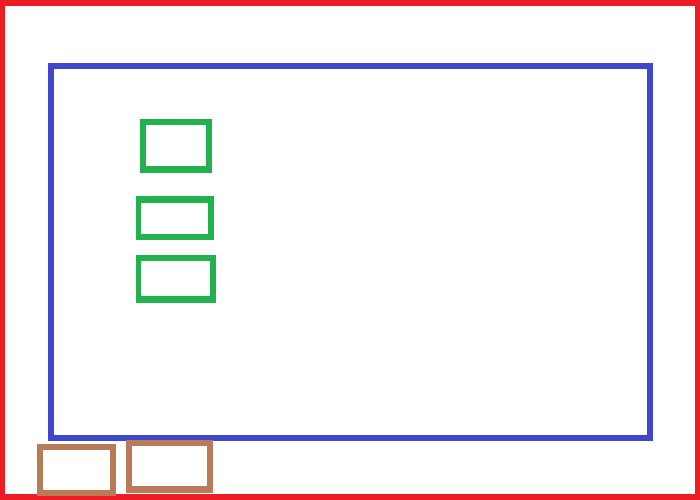
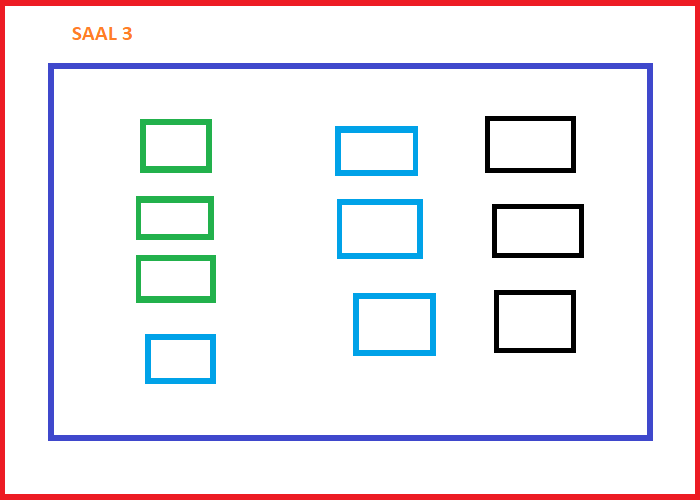
Added background image. 10.16.2021

diff --git a/css/styles.css b/css/styles.css
@@ -39,7 +39,6 @@ div.dropper {
 	height: 500px;
 	width: 700px;
 	background: #E0E0E0;
-  background-image: url("../saal.jpg");
 }
 
 

diff --git a/tableinfo.php b/tableinfo.php
@@ -41,8 +41,8 @@ class TableInfo{
       $sHtMl .= '</table>';
     return $sHtMl;
   }
-  function getTableHTML(){
-      $sHTML = '<div class="dropper" id="dropzone" ondrop="drop_handler(event)" ondragover="dragover_handler(event)">';
+  function getTableHTML($currentFloorId){
+      $sHTML = '<div class="dropper" id="dropzone" ondrop="drop_handler(event)" ondragover="dragover_handler(event)" style="background-image: url(image.php?fl='.$currentFloorId.')">';
 
          for($i=0; $i < $this->m_aTblDetails['count']; $i++){
            	$sHTML .= '<div id="'.$this->m_aTblDetails[$i]["ID"].'" class="table" ';

diff --git a/image.php b/image.php
@@ -1,0 +1,27 @@
+<?php
+require_once 'settings.php';
+require_once 'database.php';
+
+
+if ( (isset ($_REQUEST['fl'])) && ( strlen($_REQUEST['fl'])>0 )  ){
+  $floorId = $_REQUEST['fl'];
+}else{
+  header("HTTP/1.0 404 Not Found");
+  exit;
+}
+
+$my_set = new Ob_table_Settings();
+$my_db = new myDB( $my_set->host, $my_set->username,  $my_set->password , $my_set->database );
+$img = $my_db -> GetImgBLOB($floorId);
+
+
+if(empty($img)){
+  header("HTTP/1.0 404 Not Found");
+  echo "ERROR!";
+}else {
+    header('Content-type: image/jpeg');
+    echo $img;
+}
+
+
+?>

diff --git a/database.php b/database.php
@@ -154,5 +154,18 @@ function GetImage($floorId){
 
 }
 
+function GetImgBLOB($floorId){
+
+   $sSql = "SELECT IMAGE FROM FLOORS where ID =".$this->MyVarchar($floorId);
+
+   $this->m_sth = $this->m_mysqli->query( $sSql );
+
+  if  ( $row = $this->m_sth->fetch_assoc()  )
+  {
+     return $row['IMAGE'];
+  }
+
+}
+
 }
  ?>

diff --git a/index.php b/index.php
@@ -77,7 +77,7 @@ echo 'NEW</div> </td> </tr>';
 echo '<tr> <td>';
 
 $tbl_info	-> setOffset(80);
-echo $tbl_info -> getTableHTML();
+echo $tbl_info -> getTableHTML($currentFloorId);
 echo '</td> </tr>';
 echo '<tr> <td>';
 echo $tbl_info -> getHTML();
